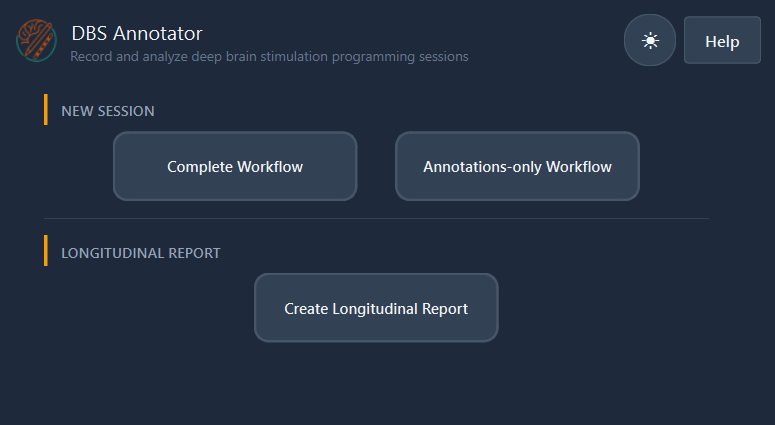
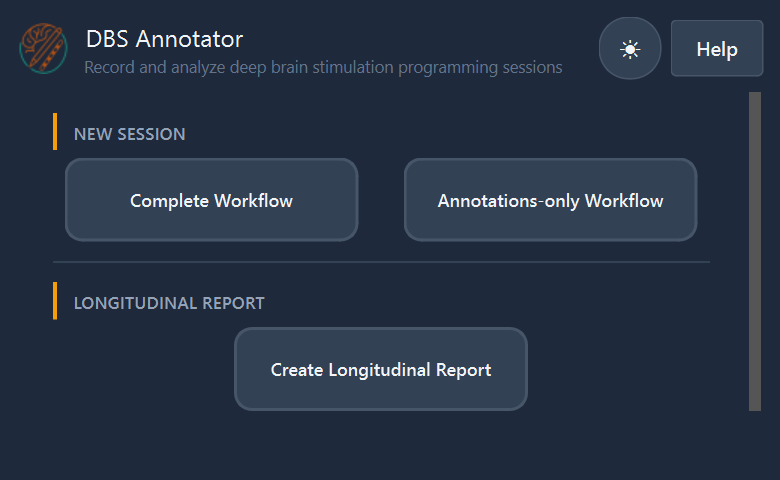
fix docs 65% screenshots

diff --git a/docs/_static/custom.css b/docs/_static/custom.css
@@ -1,32 +1,33 @@
 /*
- * sphinx-rtd-theme caps main content at ~800px for readability.
- * Override so clinical screenshots and wide tables use the full viewport.
+ * DBS Annotator Read the Docs overrides (sphinx-rtd-theme).
+ * Keep standard RTD colours (dark sidebar, light content, blue links/headings);
+ * widen the prose column; cap screenshots at 65%.
  */
 :root {
-  /* Match sphinx-rtd-theme sidebar (.wy-nav-side). */
-  --dbs-docs-canvas: #343131;
-  --dbs-docs-panel: #ffffff;
+  /* sphinx-rtd-theme .wy-nav-side */
+  --dbs-docs-sidebar: #343131;
+  /* sphinx-rtd-theme .wy-nav-content-wrap / content area */
+  --dbs-docs-content-bg: #fcfcfc;
+  --dbs-docs-screenshot-max: 65%;
 }
 
-/* Dark outer canvas (same tone as the left navigation column). */
-/* !important beats theme.css (.wy-nav-content-wrap { background: #fcfcfc }). */
+/* Outer area — same dark grey as the left navigation column (standard RTD). */
 html,
 body.wy-body-for-nav,
 .wy-body-for-nav,
 .wy-grid-for-nav,
 section.wy-nav-content-wrap,
 .wy-nav-content-wrap {
-  background: var(--dbs-docs-canvas) !important;
-  background-color: var(--dbs-docs-canvas) !important;
+  background: var(--dbs-docs-sidebar) !important;
+  background-color: var(--dbs-docs-sidebar) !important;
 }
 
-/* Readable white "window" for prose, screenshots, and tables. */
+/* Main prose column — standard RTD light panel (not app dark theme). */
 .wy-nav-content {
   max-width: none !important;
-  background: var(--dbs-docs-panel) !important;
-  background-color: var(--dbs-docs-panel) !important;
-  box-shadow: 0 0 24px rgba(0, 0, 0, 0.35);
-  /* Let the dark canvas show at the sides on wide viewports. */
+  background: var(--dbs-docs-content-bg) !important;
+  background-color: var(--dbs-docs-content-bg) !important;
+  box-shadow: 0 0 20px rgba(0, 0, 0, 0.2);
   margin-inline: clamp(0px, 2.5vw, 40px);
   min-height: 100%;
 }
@@ -35,29 +36,76 @@ section.wy-nav-content-wrap,
   max-width: 100%;
 }
 
-/* Full application window (wizard steps, session views). */
-.rst-content img.screenshot-full,
-.wy-nav-content img.screenshot-full {
-  width: 100% !important;
-  max-width: 100%;
-  height: auto;
-}
-
 /*
- * Dialogs, home screen, and other partial captures.
- * Never upscale beyond the PNG's intrinsic width; shrink only on narrow viewports.
+ * Prose on the light panel — pin body colour so it does not inherit from the
+ * dark outer wrap (tables/list-tables were unreadable when text stayed pale).
  */
-.rst-content img.screenshot-native,
-.wy-nav-content img.screenshot-native {
-  width: auto !important;
-  max-width: 100%;
-  height: auto;
+.wy-nav-content .rst-content {
+  color: #404040;
 }
 
-/* Back-compat alias (older docs / branches). */
+.wy-nav-content .rst-content table.docutils,
+.wy-nav-content .wy-table-responsive table {
+  color: #404040;
+  border-color: #e1e4e5;
+}
+
+.wy-nav-content .rst-content table.docutils th,
+.wy-nav-content .wy-table-responsive table thead th {
+  background-color: #f3f6f6;
+  color: #404040;
+  border-color: #e1e4e5;
+}
+
+.wy-nav-content .rst-content table.docutils td,
+.wy-nav-content .wy-table-responsive table td {
+  background-color: #ffffff;
+  color: #404040;
+  border-color: #e1e4e5;
+}
+
+.wy-nav-content .rst-content table.docutils tr:nth-child(2n) td,
+.wy-nav-content .wy-table-responsive table tr:nth-child(2n) td {
+  background-color: #f3f6f6;
+}
+
+/* Breadcrumbs sit on the dark canvas, outside the light panel. */
+.wy-nav-content-wrap .wy-breadcrumbs li,
+.wy-nav-content-wrap .wy-breadcrumbs li a {
+  color: #b3b3b3;
+}
+
+.wy-nav-content-wrap .wy-breadcrumbs li a:hover {
+  color: #ffffff;
+}
+
+.wy-nav-content-wrap footer,
+.wy-nav-content-wrap footer span,
+.wy-nav-content-wrap .rst-footer-buttons {
+  color: #b3b3b3;
+}
+
+/* ---- Screenshots & figures (max 65% width, centered) ---- */
+.rst-content img.screenshot-full,
+.rst-content img.screenshot-native,
 .rst-content img.screenshot-medium,
-.wy-nav-content img.screenshot-medium {
+.rst-content .figure img,
+.wy-nav-content img.screenshot-full,
+.wy-nav-content img.screenshot-native,
+.wy-nav-content img.screenshot-medium,
+.wy-nav-content .figure img {
+  display: block;
   width: auto !important;
-  max-width: 100%;
+  max-width: var(--dbs-docs-screenshot-max);
   height: auto;
+  margin-inline: auto;
+  border-radius: 4px;
+  box-shadow: 0 2px 12px rgba(0, 0, 0, 0.12);
+}
+
+/* Home-page logo keeps its explicit :width: from RST. */
+.rst-content img[src*="logo.png"],
+.wy-nav-content img[src*="logo.png"] {
+  max-width: none;
+  box-shadow: none;
 }

diff --git a/tests/docs/screenshot_helpers.py b/tests/docs/screenshot_helpers.py
@@ -69,6 +69,11 @@ STEP3_ENTRY_NOTES = (
 # Session-scale slider values in the 0–10 range (matches PD preset in Step 2).
 STEP3_SESSION_SCALE_VALUES = [6, 8, 4, 7, 5, 9, 3]
 
+# Wizard PNGs: 65% of the app's normal step geometry (matches RTD screenshot cap).
+WIZARD_SCREENSHOT_SIZE_RATIO = 0.65
+WIZARD_SCREENSHOT_MIN_WIDTH = 520
+WIZARD_SCREENSHOT_MIN_HEIGHT = 320
+
 
 def apply_docs_theme(qapp: QApplication, theme: Theme) -> None:
     """Apply light/dark QSS and fonts for documentation screenshots."""
@@ -332,17 +337,44 @@ def save_dialog(dlg: QWidget, path: Path, *, min_width: int = 340) -> None:
     save_pixmap(grab_widget_pixmap(dlg), path)
 
 
-def _apply_wizard_screenshot_geometry(wizard: WizardWindow) -> None:
-    """Resize wizard to the same geometry the app uses for the current step."""
+def _apply_wizard_screenshot_geometry(
+    wizard: WizardWindow,
+    *,
+    size_ratio: float = WIZARD_SCREENSHOT_SIZE_RATIO,
+) -> None:
+    """Resize wizard to app step geometry, then scale down for balanced RTD captures."""
     if wizard.current_step == 0:
         wizard._update_window_size_for_step0()
     else:
         wizard._update_window_size_for_main_workflow()
     wait_for_render(200)
 
+    if size_ratio >= 1.0:
+        return
+
+    wizard._release_stack_size_constraints()
+    geo = wizard.geometry()
+    width = max(int(geo.width() * size_ratio), WIZARD_SCREENSHOT_MIN_WIDTH)
+    height = max(int(geo.height() * size_ratio), WIZARD_SCREENSHOT_MIN_HEIGHT)
+
+    screen = wizard.app.primaryScreen()
+    if screen is not None:
+        rect = screen.availableGeometry()
+        width = min(width, max(WIZARD_SCREENSHOT_MIN_WIDTH, rect.width() - 40))
+        height = min(height, max(WIZARD_SCREENSHOT_MIN_HEIGHT, rect.height() - 40))
+        x = int((rect.width() - width) / 2)
+        y = int((rect.height() - height) / 2)
+    else:
+        x, y = geo.x(), geo.y()
+
+    wizard.setMinimumSize(1, 1)
+    wizard.setMaximumSize(16777215, 16777215)
+    wizard.setGeometry(x, y, width, height)
+    wait_for_render(300)
+
 
 def save_wizard(wizard: WizardWindow, path: Path) -> None:
-    """Capture the wizard at app-native size (step 0 compact, steps 1+ responsive)."""
+    """Capture the wizard at 65% of the app's normal step size (step 0 compact)."""
     _apply_wizard_screenshot_geometry(wizard)
     save_pixmap(grab_window_pixmap(wizard), path)
 

diff --git a/CHANGELOG.md b/CHANGELOG.md
@@ -21,8 +21,8 @@ and this project adheres to [Semantic Versioning](https://semver.org/spec/v2.0.0
   light content panel, default blue links/headings); explicit table/body text
   contrast on the light panel; browser tab favicon uses the logo on a cream
   background (``scripts/generate_docs_favicon.py``); screenshots and figures
-  capped at 60% width (centered) via ``docs/_static/custom.css``.
-- Docs screenshot pipeline: wizard captures use 60% of the app's normal step window
+  capped at 65% width (centered) via ``docs/_static/custom.css``.
+- Docs screenshot pipeline: wizard captures use 65% of the app's normal step window
   size (``WIZARD_SCREENSHOT_SIZE_RATIO`` in ``tests/docs/screenshot_helpers.py``)
   for denser, balanced full-window PNGs on RTD.
 
